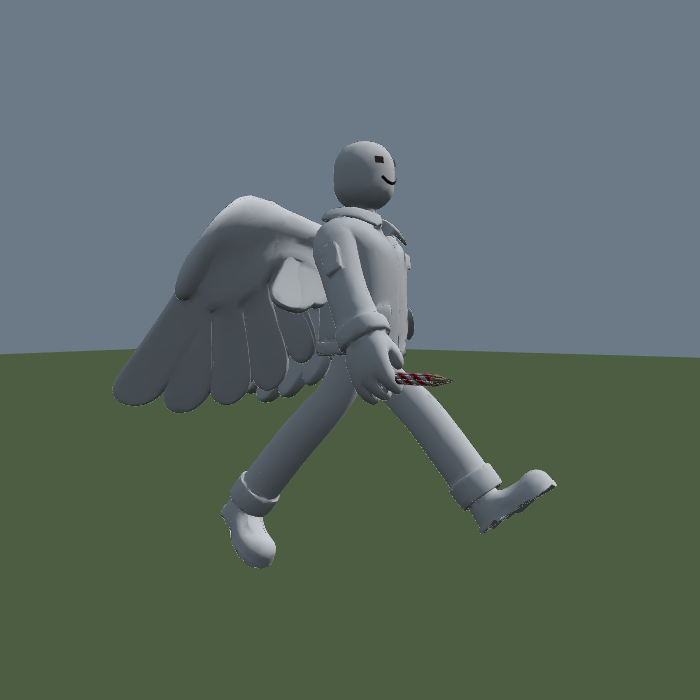
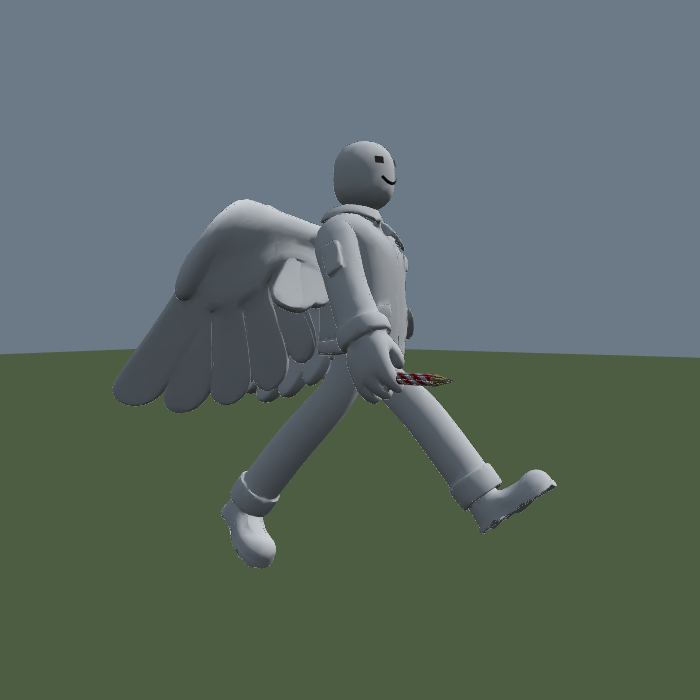
The sleeve was going through the wing, and the collarbone was why
From above with the wings out, a grey wedge crossed each sleeve, a band of
feather ran between the collar and the jacket so the collar looked like it
was floating on its own, and the torso vanished behind it. Three complaints,
one cause.

The scan wears its wings as a mantle — the membrane at their root lies right
across the shoulders and the upper back. Asking which joint owns which vertex
rather than guessing: that piece belongs to the collarbones, and the wing
bones reach no closer to the midline than 0.19 of the figure's height. So it
is not a wing angle, and changing one does nothing; rendering the deployed
wings at -0.4, 0, 0.3 and 0.62 radians moves that band not at all.

What moved it was the arm. The collarbone took 45 per cent of the shoulder's
rotation and the upper arm the other 55, and in a glide that 55 per cent
drove the sleeve up through a mantle that stayed put. The collarbone takes 80
now: the mantle rides with the shoulder, the sleeves come out from under it,
the collar stays attached to the jacket and the back is a back again.

The cost is the one the collarbone always carries — swinging one arm drags
the chest 1.2 cm instead of 0.7 on a figure one unit tall — and the check
that exists for exactly that holds it under two. The hand still swings 36.9
cm, the wing tip still folds 31, the crown is still the head.

Claude-Session: https://claude.ai/code/session_01AbPj1ecgWZX5NRERgq23EA

diff --git a/src/player/avatar.js b/src/player/avatar.js
@@ -422,7 +422,7 @@ const SKIN_SOFTEN = 0.015;
  *  other while still letting the crotch stretch between them. */
 const SKIN_MIDLINE = 0.03;
 /** How much of an arm's swing the collarbone takes rather than the shoulder. */
-const SCAN_CLAVICLE = 0.45;
+const SCAN_CLAVICLE = 0.80;
 /** Passes of neighbour-averaging over the skin weights. See weighScan(). */
 const SKIN_SMOOTHING = 12;
 
